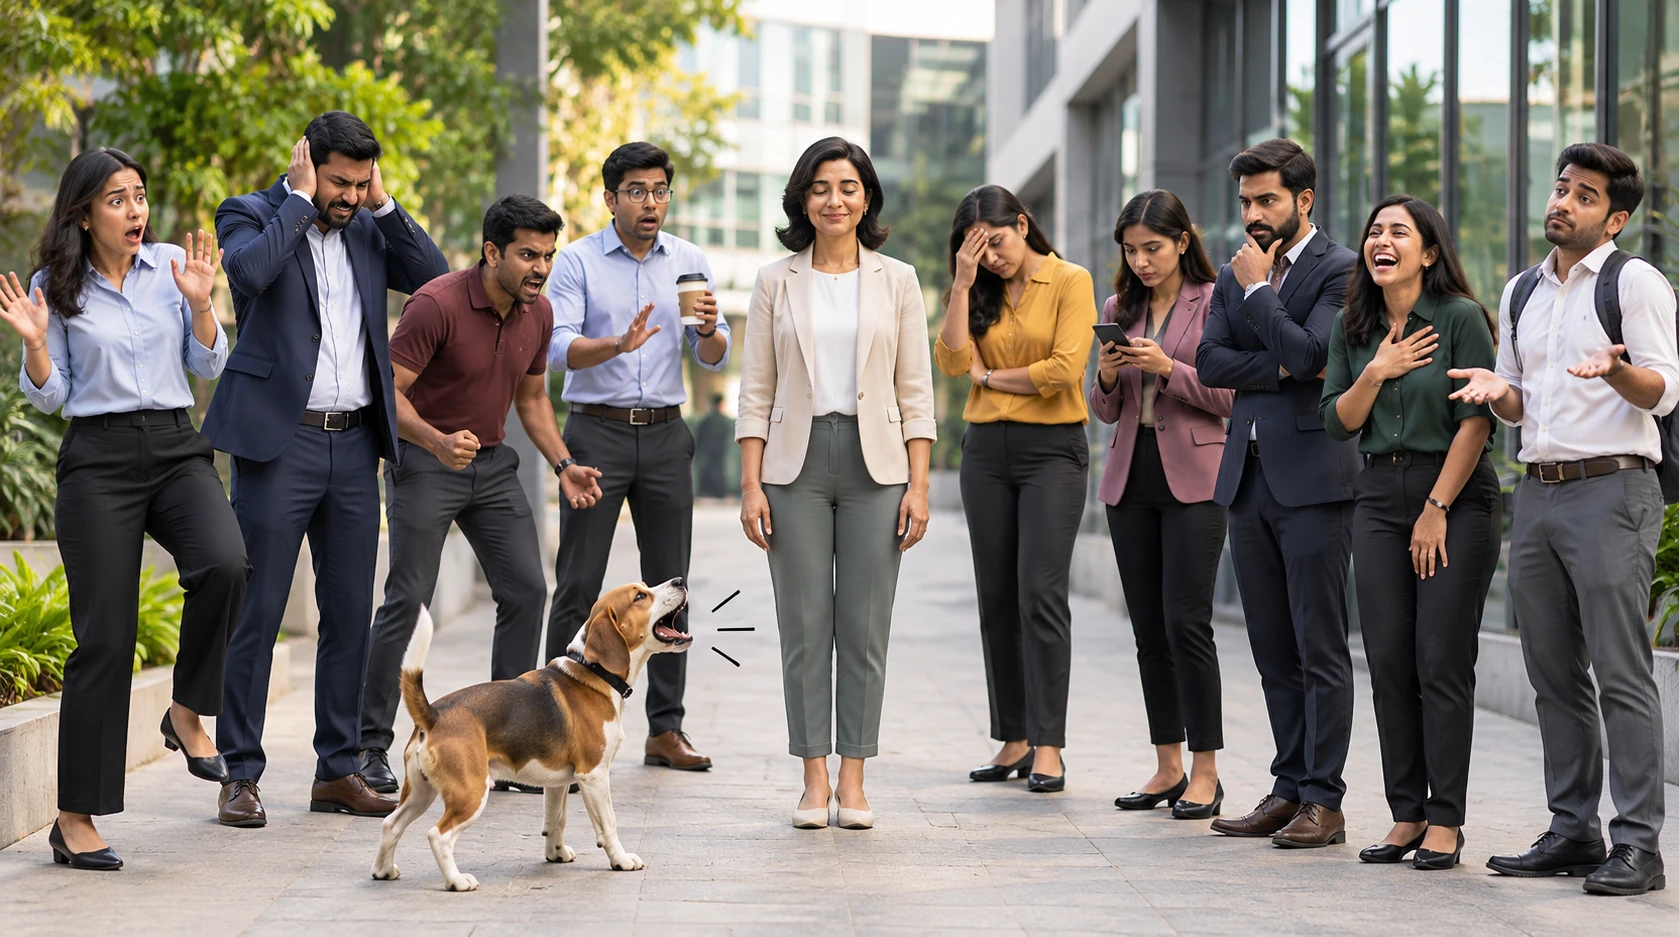
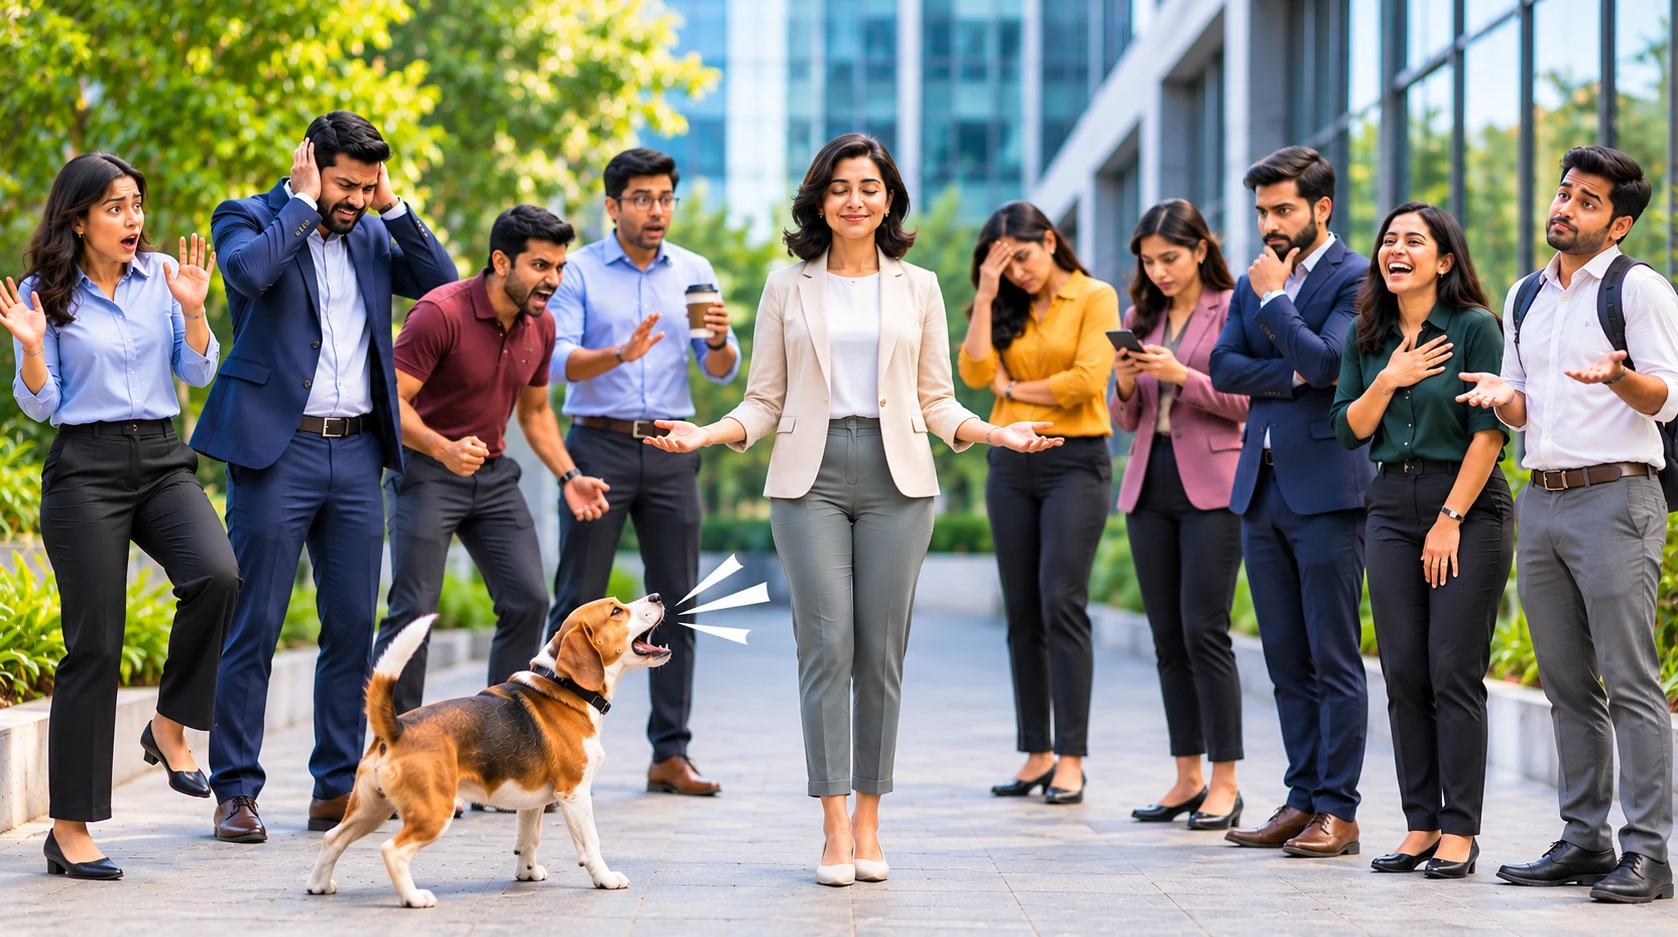
Update barking dog mindset visual to new bark image

diff --git a/brain-yoga-for-busy-minds.html b/brain-yoga-for-busy-minds.html
@@ -589,7 +589,7 @@
             <!-- Story Visual Illustration Card (Strictly NO text on top of image) -->
             <div class="by-card mb-10 overflow-hidden">
                 <div class="aspect-[16/9] sm:aspect-[21/9] w-full bg-slate-100 overflow-hidden">
-                    <img src="barking_dog_real_faces.webp" alt="10 People and 1 Barking Dog - Mindset Metaphor" class="w-full h-full object-cover object-center" loading="lazy" decoding="async">
+                    <img src="barking_dog_new.webp" alt="10 People and 1 Barking Dog - Mindset Metaphor" class="w-full h-full object-cover object-center" loading="lazy" decoding="async">
                 </div>
                 <div class="p-4 sm:p-5 bg-white border-t border-slate-100 flex flex-col sm:flex-row items-center justify-between gap-3 text-center sm:text-left">
                     <div class="flex items-center gap-2">

diff --git a/brain-yoga-for-busy-minds/index.html b/brain-yoga-for-busy-minds/index.html
@@ -589,7 +589,7 @@
             <!-- Story Visual Illustration Card (Strictly NO text on top of image) -->
             <div class="by-card mb-10 overflow-hidden">
                 <div class="aspect-[16/9] sm:aspect-[21/9] w-full bg-slate-100 overflow-hidden">
-                    <img src="barking_dog_real_faces.webp" alt="10 People and 1 Barking Dog - Mindset Metaphor" class="w-full h-full object-cover object-center" loading="lazy" decoding="async">
+                    <img src="barking_dog_new.webp" alt="10 People and 1 Barking Dog - Mindset Metaphor" class="w-full h-full object-cover object-center" loading="lazy" decoding="async">
                 </div>
                 <div class="p-4 sm:p-5 bg-white border-t border-slate-100 flex flex-col sm:flex-row items-center justify-between gap-3 text-center sm:text-left">
                     <div class="flex items-center gap-2">

diff --git a/busy-minds.html b/busy-minds.html
@@ -589,7 +589,7 @@
             <!-- Story Visual Illustration Card (Strictly NO text on top of image) -->
             <div class="by-card mb-10 overflow-hidden">
                 <div class="aspect-[16/9] sm:aspect-[21/9] w-full bg-slate-100 overflow-hidden">
-                    <img src="barking_dog_real_faces.webp" alt="10 People and 1 Barking Dog - Mindset Metaphor" class="w-full h-full object-cover object-center" loading="lazy" decoding="async">
+                    <img src="barking_dog_new.webp" alt="10 People and 1 Barking Dog - Mindset Metaphor" class="w-full h-full object-cover object-center" loading="lazy" decoding="async">
                 </div>
                 <div class="p-4 sm:p-5 bg-white border-t border-slate-100 flex flex-col sm:flex-row items-center justify-between gap-3 text-center sm:text-left">
                     <div class="flex items-center gap-2">

diff --git a/index.html b/index.html
@@ -589,7 +589,7 @@
             <!-- Story Visual Illustration Card (Strictly NO text on top of image) -->
             <div class="by-card mb-10 overflow-hidden">
                 <div class="aspect-[16/9] sm:aspect-[21/9] w-full bg-slate-100 overflow-hidden">
-                    <img src="barking_dog_real_faces.webp" alt="10 People and 1 Barking Dog - Mindset Metaphor" class="w-full h-full object-cover object-center" loading="lazy" decoding="async">
+                    <img src="barking_dog_new.webp" alt="10 People and 1 Barking Dog - Mindset Metaphor" class="w-full h-full object-cover object-center" loading="lazy" decoding="async">
                 </div>
                 <div class="p-4 sm:p-5 bg-white border-t border-slate-100 flex flex-col sm:flex-row items-center justify-between gap-3 text-center sm:text-left">
                     <div class="flex items-center gap-2">
